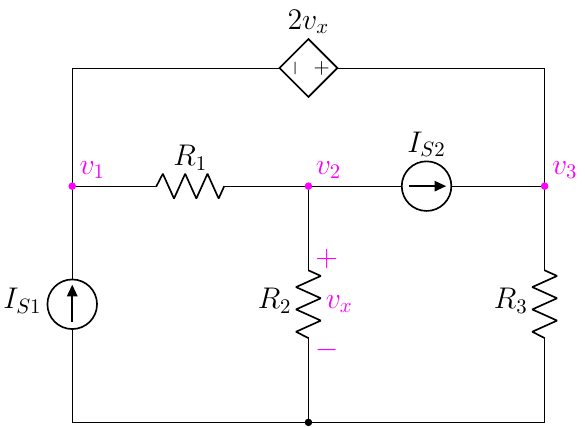
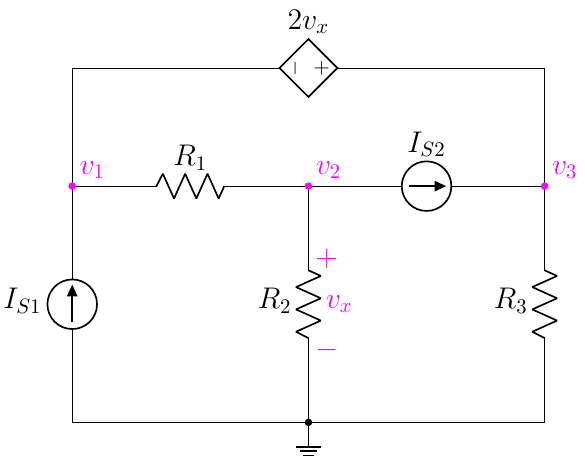
edit 4.24

diff --git a/1.4 Supernode/4.2 The supernode/4.24(new).tex b/1.4 Supernode/4.2 The supernode/4.24(new).tex
@@ -11,7 +11,7 @@
                 to[short] ++(0,2);
 
     %%% horizontal %%%
-    \draw(0,0)  to[short,-*] ++(4,0)
+    \draw(0,0)  to[short,-*] ++(4,0) node[ground]{}
                 to[short] ++(4,0);
 
     \draw(0,4)  to[R,l=\rname{1}] ++(4,0)
